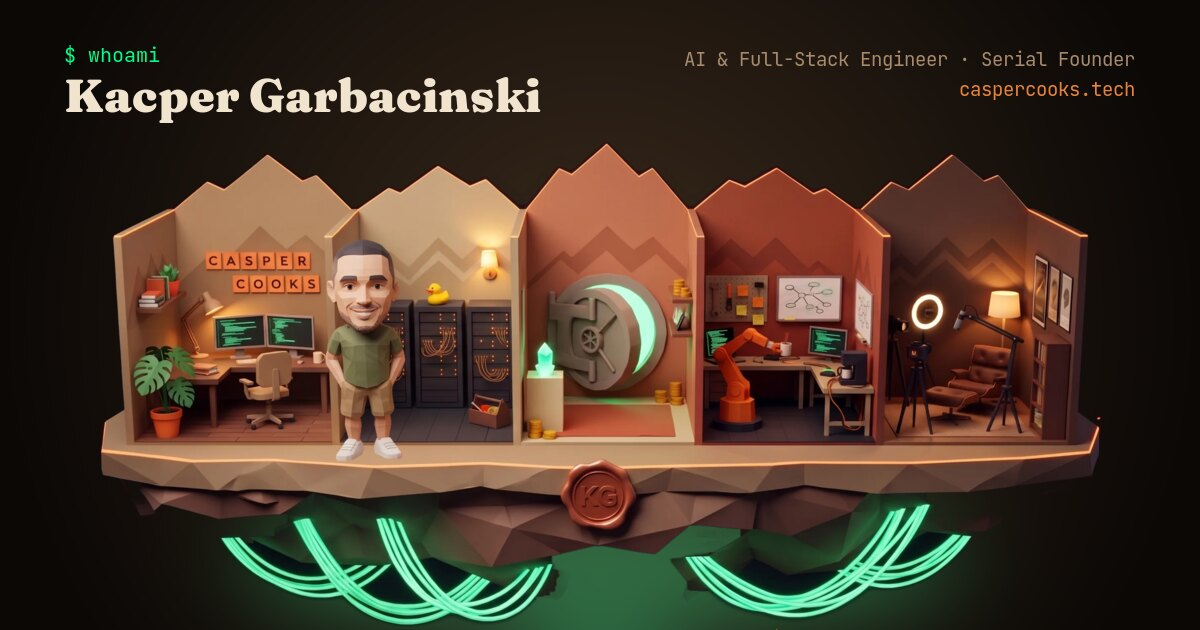
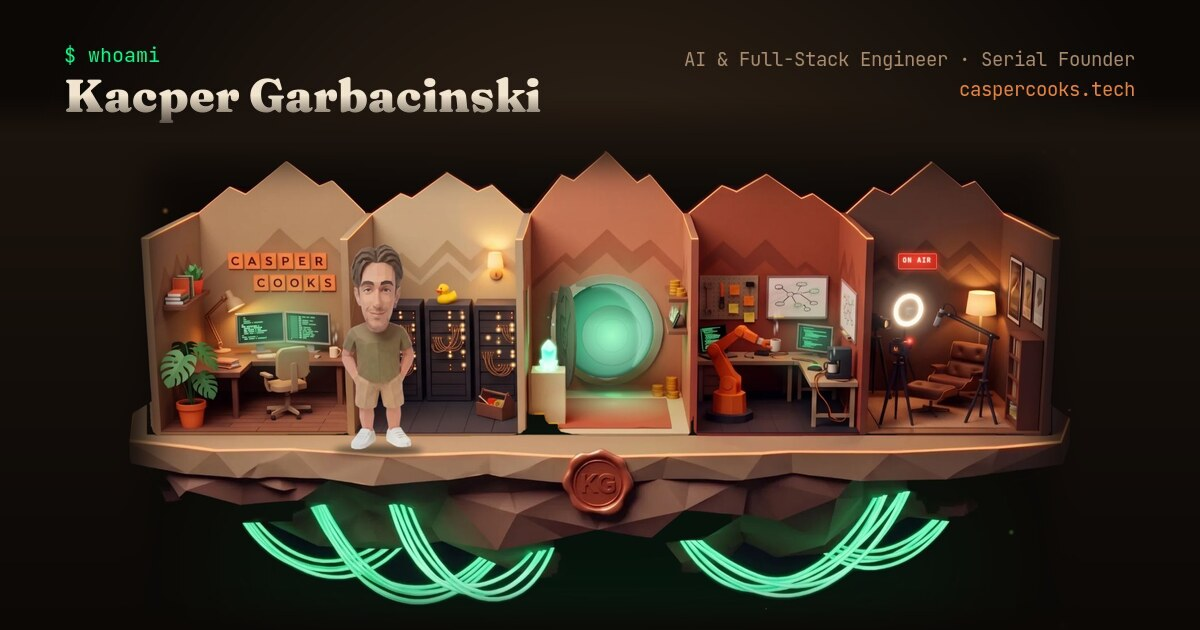
Figurka v2: podobizna z nowych zdjęć (włosy do ucha, chłodny brąz, kolczyk), skok CEO w natywnych proporcjach, nowy obraz OG/Twitter z aktualną dioramą

diff --git a/components/diorama/layout.ts b/components/diorama/layout.ts
@@ -20,5 +20,5 @@ export const ROOM_BOX: Record<'dev' | 'ceo', Box[]> = {
 }
 export const FIG = {
   dev: { l: 22.792, t: 21.634, w: 7.906, h: 43.116, jumpAspect: 0.698 },
-  ceo: { l: 22.831, t: 21.331, w: 7.944, h: 43.419, jumpAspect: 0.596 },
+  ceo: { l: 22.831, t: 21.331, w: 7.944, h: 43.419, jumpAspect: 0.71 },
 }
